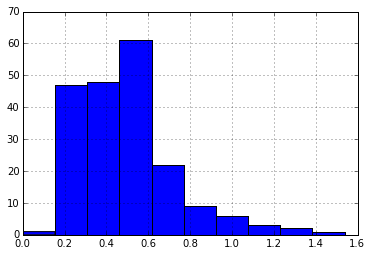
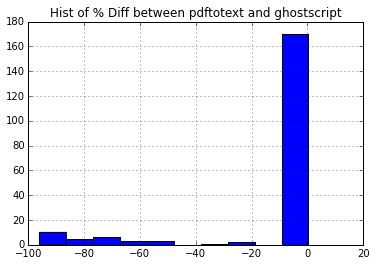
new data and results

diff --git a/pdf_to_text_comparison/pdf_to_text_comparison.rst b/pdf_to_text_comparison/pdf_to_text_comparison.rst
@@ -5,11 +5,12 @@ Comparing pdftotext and tika
 Methodology:
 ~~~~~~~~~~~~
 
-1. Converted 200 pdf files with both tika and pdftotext.
+1. Converted 200 pdf files with pdftotext, ghostscript, pdf2text,
+   pdfbox, tika, and tesseract.
 2. Extracted the number of words over 3 chars in length from each
-   document .
-3. Created a vector containing the % difference between the number of
-   extracted words for each document pair.
+   document.
+3. Created a vector containing the % difference between pdftotext and
+   each of the other pdftotext converters
 
 .. code:: python
 
@@ -31,56 +32,214 @@ Methodology:
     WORDS = re.compile('[A-Za-z]{3,}')
 .. code:: python
 
+    ghostscript = []
+    pdf2text = []
+    pdfbox = []
+    pdftotext = []
+    tika = []
+    tess = []
     
-    diff = []
-    for d in glob("DOCUMENT*"):
+    for d in glob("0001/DOCUMENT*"):
     
-        with open(d + "/document.txt", 'r') as f:
+        with open(d + "/document_pdftotext.txt", 'r') as f:
             text = f.read()
-            pdftotext_len = len(tuple(WORDS.finditer(text)))
-    
-        with open(d + "/documents_tika.txt", 'r') as f:
+            pdftotext_length = len(tuple(WORDS.finditer(text)))
+            pdftotext.append(pdftotext_length)
+        
+        with open(d + "/document_gs_txtwrite.txt", 'r') as f:
             text = f.read()
-            tika_len = len(tuple(WORDS.finditer(text)))
+            gs_length = len(tuple(WORDS.finditer(text)))
+            ghostscript.append((gs_length - pdftotext_length) / (pdftotext_length * 1.0) * 100)
+            
+        with open(d + "/document_pdf2text.txt", 'r') as f:
+            text = f.read()
+            pdf2text_length = len(tuple(WORDS.finditer(text)))
+            pdf2text.append((pdf2text_length - pdftotext_length) / (pdftotext_length * 1.0) * 100)
+       
+        with open(d + "/document_pdfbox.txt", 'r') as f:
+            text = f.read()
+            pdfbox_length = len(tuple(WORDS.finditer(text)))
+            pdfbox.append((pdfbox_length - pdftotext_length) / (pdftotext_length * 1.0) * 100)
     
-        difference = (tika_len - pdftotext_len) / (pdftotext_len * 1.0) * 100
-        diff.append(difference)
+        with open(d + "/document_tika.txt", 'r') as f:
+            text = f.read()
+            tika_length = len(tuple(WORDS.finditer(text)))
+            tika.append((tika_length - pdftotext_length) / (pdftotext_length * 1.0) * 100)
+    
+        with open(d + "/texts/document_tes.txt", 'r') as f:
+            text = f.read()
+            tess_length = len(tuple(WORDS.finditer(text)))
+            tess.append((tess_length - pdftotext_length) / (pdftotext_length * 1.0) * 100)
+
+
+.. parsed-literal::
+
+    200
+    200
+    200
+    200
+    200
+
+
 .. code:: python
 
-    tika_perc_diff = pandas.Series(diff)
-    tika_perc_diff.describe()
+    data = pandas.DataFrame({'ghostscript': ghostscript, 'pdf2text': pdf2text, 'tika': tika, 'tess': tess})
+.. code:: python
+
+    data.describe()
+
+
+
+.. raw:: html
+
+    <div style="max-height:1000px;max-width:1500px;overflow:auto;">
+    <table border="1" class="dataframe">
+      <thead>
+        <tr style="text-align: right;">
+          <th></th>
+          <th>ghostscript</th>
+          <th>pdf2text</th>
+          <th>tess</th>
+          <th>tika</th>
+        </tr>
+      </thead>
+      <tbody>
+        <tr>
+          <th>count</th>
+          <td> 200.000000</td>
+          <td> 200.000000</td>
+          <td> 200.000000</td>
+          <td> 200.000000</td>
+        </tr>
+        <tr>
+          <th>mean</th>
+          <td> -10.894073</td>
+          <td>   0.770086</td>
+          <td>  -0.433613</td>
+          <td>   0.525901</td>
+        </tr>
+        <tr>
+          <th>std</th>
+          <td>  27.222559</td>
+          <td>   0.718852</td>
+          <td>   0.878030</td>
+          <td>   0.238904</td>
+        </tr>
+        <tr>
+          <th>min</th>
+          <td> -96.063492</td>
+          <td>   0.000000</td>
+          <td>  -4.868154</td>
+          <td>   0.000000</td>
+        </tr>
+        <tr>
+          <th>25%</th>
+          <td>   0.000000</td>
+          <td>   0.200044</td>
+          <td>  -0.694352</td>
+          <td>   0.338792</td>
+        </tr>
+        <tr>
+          <th>50%</th>
+          <td>   0.000000</td>
+          <td>   0.698293</td>
+          <td>  -0.325439</td>
+          <td>   0.501187</td>
+        </tr>
+        <tr>
+          <th>75%</th>
+          <td>   0.000000</td>
+          <td>   1.054087</td>
+          <td>   0.000000</td>
+          <td>   0.626959</td>
+        </tr>
+        <tr>
+          <th>max</th>
+          <td>   0.354191</td>
+          <td>   3.592217</td>
+          <td>   2.030457</td>
+          <td>   1.762115</td>
+        </tr>
+      </tbody>
+    </table>
+    </div>
+
+
+
+.. code:: python
+
+    data.ghostscript.hist().set_title("Hist of % Diff between pdftotext and ghostscript")
 
 
 
 .. parsed-literal::
 
-    count    200.000000
-    mean       0.497971
-    std        0.231230
-    min        0.000000
-    25%        0.313235
-    50%        0.474721
-    75%        0.599402
-    max        1.538462
-    dtype: float64
-
-
-
-Based on these statistics it's clear that Tika extracts on average more words. There is very little probability that pdf to text would extract more words.
-^^^^^^^^^^^^^^^^^^^^^^^^^^^^^^^^^^^^^^^^^^^^^^^^^^^^^^^^^^^^^^^^^^^^^^^^^^^^^^^^^^^^^^^^^^^^^^^^^^^^^^^^^^^^^^^^^^^^^^^^^^^^^^^^^^^^^^^^^^^^^^^^^^^^^^^^^^
-
-.. code:: python
-
-    tika_perc_diff.hist()
-
-
-
-.. parsed-literal::
-
-    <matplotlib.axes._subplots.AxesSubplot at 0x7fc580fb9790>
+    <matplotlib.text.Text at 0x10a72b1d0>
 
 
 
 
 .. image:: output_7_1.png
+
+
+.. code:: python
+
+    data.pdf2text.hist().set_title("Hist of % Diff between pdftotext and pdf2text")
+
+
+
+.. parsed-literal::
+
+    <matplotlib.text.Text at 0x10a8857d0>
+
+
+
+
+.. image:: output_8_1.png
+
+
+.. code:: python
+
+    data.tika.hist().set_title("Hist of % Diff between tika and pdf2text")
+
+
+
+.. parsed-literal::
+
+    <matplotlib.text.Text at 0x10a9e9710>
+
+
+
+
+.. image:: output_9_1.png
+
+
+.. code:: python
+
+    data.tess.hist().set_title("Hist of % Diff between tesseract and pdf2text")
+
+
+
+.. parsed-literal::
+
+    <matplotlib.text.Text at 0x10ab44d10>
+
+
+
+
+.. image:: output_10_1.png
+
+
+.. code:: python
+
+    from scipy.stats import ttest_ind # Note find a better test
+    t_stat, p_value = ttest_ind(data.pdf2text, data.tika)
+    print("T Stats: ", t_stat)
+    print("P-Value: " % p_value)
+
+.. parsed-literal::
+
+    ('T Stats: ', 4.5587469819775759)
+    P-Value: 
+
 
